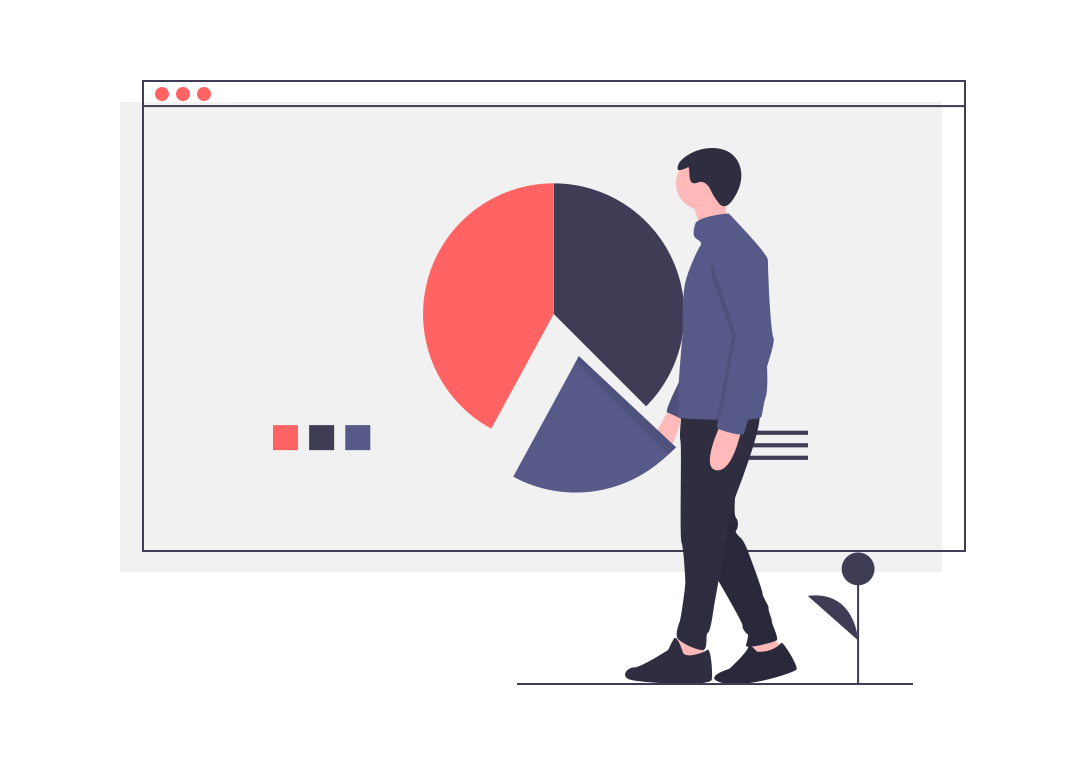
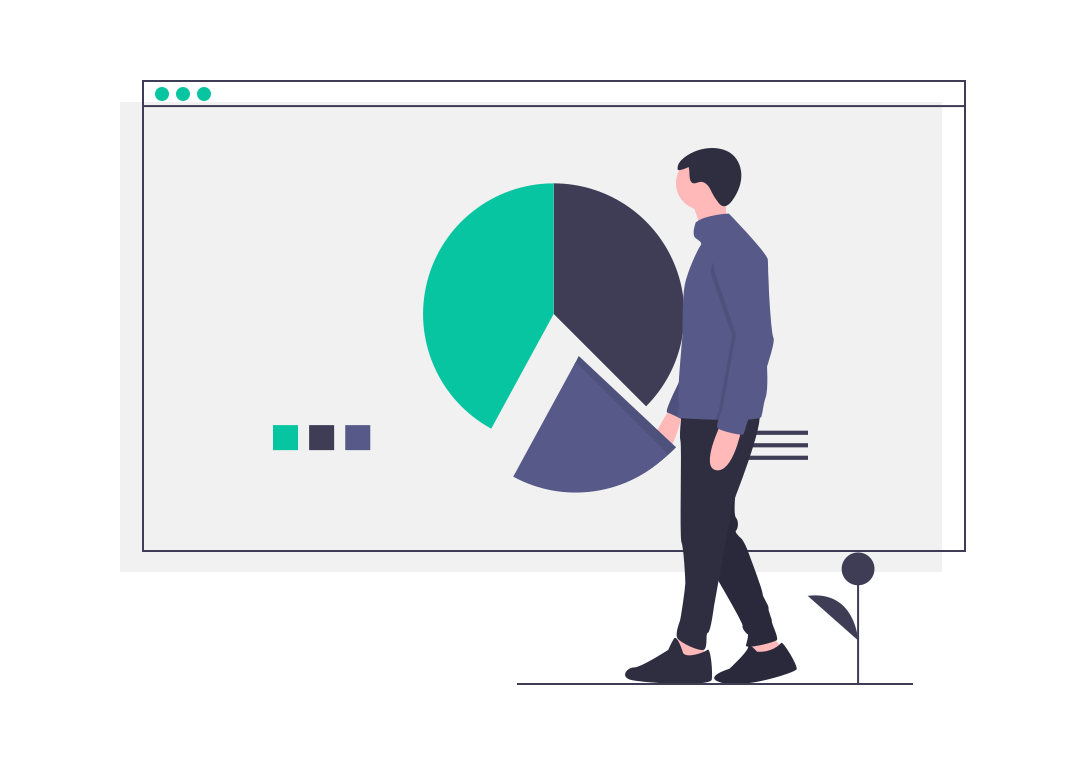
brand color updated and images added

Changed region(s): [[0.3646, 0.2405, 0.5166, 0.5712], [0.1215, 0.1203, 0.2127, 0.1503], [0.2431, 0.5412, 0.2735, 0.6013]]

diff --git a/src/components/CourseCard.js b/src/components/CourseCard.js
@@ -14,12 +14,18 @@ const CardStyled = styled.div`
   :hover {
     transform: scale(1.1);
   }
+  .card-content {
+    height: 13rem;
+    @media only screen and (max-width: 600px) {
+      height: auto;
+    }
+  }
 `;
 
 const CourseCard = ({ image, title, Subtitle }) => (
   <CardStyled className="card">
     <div className="card-image">
-      <figure className="image is-square">
+      <figure className="image is-5by4">
         <img src={image} alt="Placeholder image" />
       </figure>
     </div>

diff --git a/src/utils/theme.js b/src/utils/theme.js
@@ -1,7 +1,7 @@
 import { createGlobalStyle } from 'styled-components';
 import reset from 'styled-reset-advanced';
 
-const mainBrandColor = '#FF6363';
+const mainBrandColor = '#07C5A1';
 
 export const theme = {
   // It can be liberally applied to your layout as its main identity.

diff --git a/src/components/CoursesSlider.js b/src/components/CoursesSlider.js
@@ -15,7 +15,6 @@ const Container = styled.div`
     padding-bottom: 2rem;
   }
   .card {
-    height: 35rem;
     width: auto;
   }
 `;
